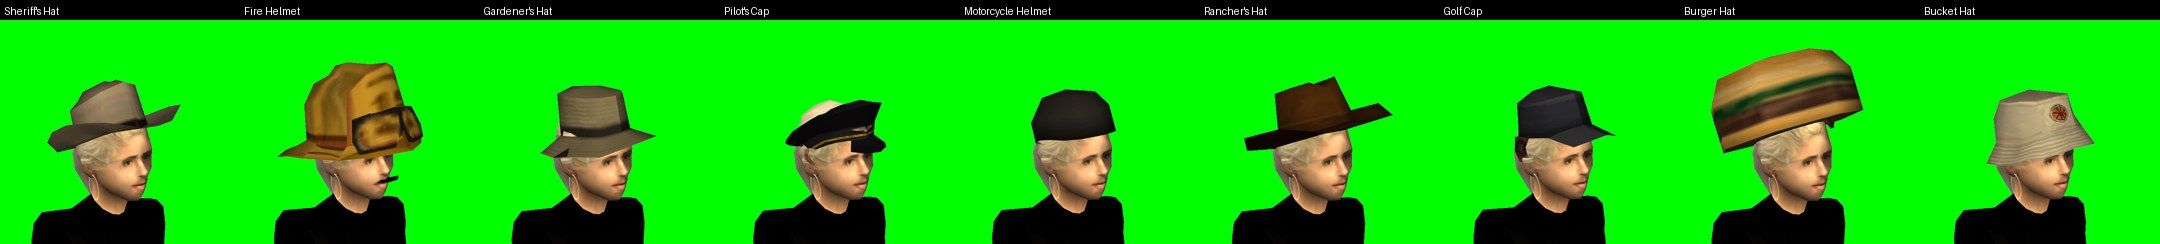
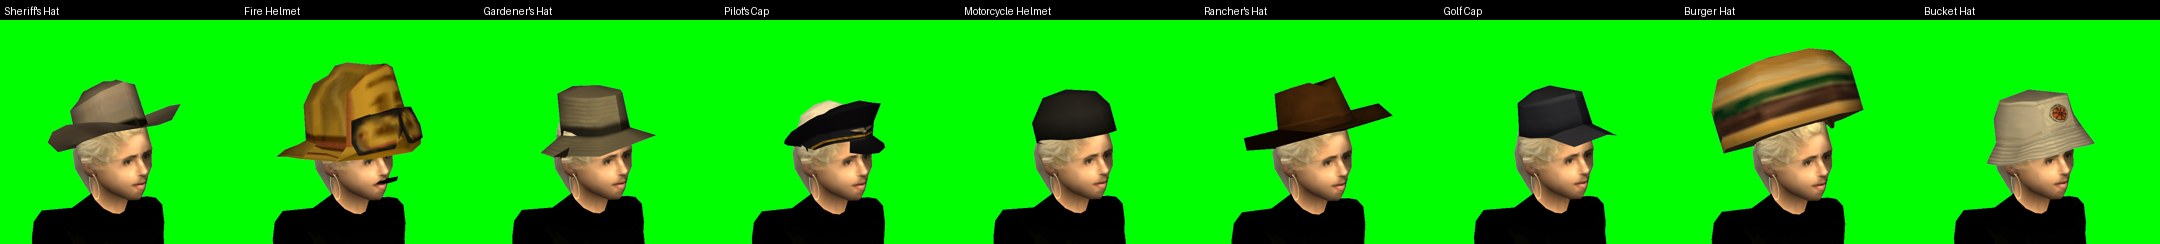
fix(models): hat atlas blocks checked face by face, a height floor for shared blocks (#77)
Coloured by block in Blender, the sheriff's crown front (5,5 and its band 3,6) and the gardener's brim (5,4) were
shell blocks the filter dropped, while the sheriff's 0,7, the pilot's 3,5 and the golf cap's 5,4 were skull band
and hair it kept. The bucket hat's crown top shares block 1,4 with the hair ring under it, so a row can now say
`above={(c, r): metres}` and remodel_head.py takes --above. Nine hats re-shot alone from five angles and worn on
skin 93; the review and the runbook carry the method.

diff --git a/tools/blender/remodel_head.py b/tools/blender/remodel_head.py
@@ -1,6 +1,6 @@
 """Rebuild a bare head for a GTA:SA ped whose mesh carries a hat: run inside Blender with the DragonFF add-on.
 
-    blender --python tools/blender/remodel_head.py -- <ped dir> <out dir> [--only heads|hats|both] [--blocks c,r;c,r] [skin ...]
+    blender --python tools/blender/remodel_head.py -- <ped dir> <out dir> [--only heads|hats|both] [--blocks c,r;c,r] [--above c,r,h] [skin ...]
 
 <ped dir> holds <name>.dff and <name>.txd (tools/extract_ped_models.py puts them in models/work when run with
 --keep). For each skin in HEADS the script imports the ped with its texture, deletes the headgear, flattens the cut,
@@ -66,7 +66,7 @@ HEADS = {
 }
 
 
-def remodel(src_dir, out_dir, name, tex, cap_floor=0.045, dark_floor=-0.03, dark_lum=0.12, bright_floor=None, bright_lum=0.7, profile=P, apex=0.09, hair_uv=None, cap_blocks=None, only="both", hat_blocks=None):
+def remodel(src_dir, out_dir, name, tex, cap_floor=0.045, dark_floor=-0.03, dark_lum=0.12, bright_floor=None, bright_lum=0.7, profile=P, apex=0.09, hair_uv=None, cap_blocks=None, only="both", hat_blocks=None, hat_above=None):
     for o in list(bpy.data.objects):
         bpy.data.objects.remove(o, do_unlink=True)
     for i in list(bpy.data.images):
@@ -129,7 +129,7 @@ def remodel(src_dir, out_dir, name, tex, cap_floor=0.045, dark_floor=-0.03, dark
     notes = []
     if only in ("both", "hats"):
         to_bone = (arm.matrix_world @ head.matrix_local).inverted() @ ob.matrix_world
-        notes.append(export_hat(doomed, uvl, to_bone, name, tex, img, out_dir, hat_blocks))
+        notes.append(export_hat(doomed, uvl, to_bone, name, tex, img, out_dir, hat_blocks, hat_above))
     if only == "hats":
         bm.free()
         return f"{name}: " + "; ".join(notes)
@@ -234,18 +234,22 @@ def remodel(src_dir, out_dir, name, tex, cap_floor=0.045, dark_floor=-0.03, dark
 # in the Head bone's bind frame (DragonFF rebuilds the bone from the skin's inverse bind matrix, so the bone's rest
 # matrix is that frame), they make a static object that `items` attaches on SA-MP bone 2 at zero offset: the game
 # places an attachment in the bone's own axes, which are rotated against the ped's model space (#77).
-def export_hat(faces, uvl, to_bone, name, tex, img, out_dir, blocks=None):
+def export_hat(faces, uvl, to_bone, name, tex, img, out_dir, blocks=None, above=None):
     hb = bmesh.new()
     huv = hb.loops.layers.uv.new()
     verts = {}
     lining = 0
     for f in faces:
         # GTA models a skull patch under its hats, textured with a smear of the face, and the rules cut it with
-        # the hat: only faces in the hat's own atlas blocks (tools/port_hats.py) go into the object
+        # the hat: only faces in the hat's own atlas blocks (tools/port_hats.py) go into the object, and a block
+        # listed in `above` only from that height over the bone up
         if blocks is not None:
             cu = sum(l[uvl].uv.x for l in f.loops) / len(f.loops)
             cv = sum(l[uvl].uv.y for l in f.loops) / len(f.loops)
-            if (int((cu % 1.0) * 8), int(((1 - cv) % 1.0) * 8)) not in blocks:
+            block = (int((cu % 1.0) * 8), int(((1 - cv) % 1.0) * 8))
+            floor = (above or {}).get(block)
+            height = (to_bone @ f.calc_center_median()).x
+            if block not in blocks and floor is None or floor is not None and height < floor:
                 lining += 1
                 continue
         vs = []
@@ -307,9 +311,14 @@ if __name__ == "__main__":
         i = argv.index("--blocks")
         hat_blocks = {tuple(int(v) for v in b.split(",")) for b in argv[i + 1].split(";")}
         del argv[i : i + 2]
+    hat_above = None  # "c,r,h;c,r,h": blocks that are hat only from h metres over the Head bone up
+    if "--above" in argv:
+        i = argv.index("--above")
+        hat_above = {(int(c), int(r)): float(h) for c, r, h in (b.split(",") for b in argv[i + 1].split(";"))}
+        del argv[i : i + 2]
     src_dir, out_dir = argv[0], argv[1]
     skins = [int(s) for s in argv[2:]] or list(HEADS)
     addon_utils.enable("DragonFF", default_set=False)
     for skin in skins:
         spec = dict(HEADS[skin])
-        print(remodel(src_dir, out_dir, spec.pop("name"), spec.pop("tex"), only=only, hat_blocks=hat_blocks, **spec))
+        print(remodel(src_dir, out_dir, spec.pop("name"), spec.pop("tex"), only=only, hat_blocks=hat_blocks, hat_above=hat_above, **spec))

diff --git a/tools/port_hats.py b/tools/port_hats.py
@@ -13,17 +13,20 @@ PORT_MODEL_MIN = 20001
 # uname, display name, skin, ped dff name, loot: { table: weight }, blocks: the 8x8 atlas blocks (column, row; row 0 at
 # the top) that are the hat. GTA models a skull patch under its hats, textured with a smear of the face, and the
 # remodel rules cut it off with the hat; faces outside these blocks are left out of the object (they would show
-# through its open bottom). Read off an atlas sheet with the 8x8 grid drawn over each skin's texture.
+# through its open bottom). Read off an atlas sheet with the 8x8 grid drawn over each skin's texture, then checked
+# face by face in Blender with each block in its own colour (the skull patch sits well inside the crown's radius).
+# `above`: blocks that are hat only from that height over the Head bone up (the bucket hat's crown top shares a
+# block with the hair ring under it).
 HATS = [
-    dict(uname="SheriffHat", name="Sheriff's Hat", skin=283, ped="csher", loot={"world_police": 12.0, "vehicle_police": 10.0}, blocks={(3, 5), (4, 5), (0, 7)}),
+    dict(uname="SheriffHat", name="Sheriff's Hat", skin=283, ped="csher", loot={"world_police": 12.0, "vehicle_police": 10.0}, blocks={(3, 5), (4, 5), (5, 5), (3, 6)}),
     dict(uname="FireHelmet", name="Fire Helmet", skin=277, ped="lafd1", loot={"world_industrial": 10.0, "vehicle_industrial": 8.0}, blocks={(4, 6), (5, 6), (6, 6), (7, 6), (4, 7), (5, 7), (6, 7), (7, 7)}),
-    dict(uname="GardenerHat", name="Gardener's Hat", skin=35, ped="hmogar", loot={"world_civilian": 10.0}, blocks={(6, 4), (7, 4)}),
-    dict(uname="PilotCap", name="Pilot's Cap", skin=61, ped="wmyplt", loot={"world_civilian": 5.0, "vehicle_civilian": 4.0}, blocks={(5, 5), (6, 5), (7, 5), (3, 5), (1, 1), (2, 1)}),
+    dict(uname="GardenerHat", name="Gardener's Hat", skin=35, ped="hmogar", loot={"world_civilian": 10.0}, blocks={(5, 4), (6, 4), (7, 4)}),
+    dict(uname="PilotCap", name="Pilot's Cap", skin=61, ped="wmyplt", loot={"world_civilian": 5.0, "vehicle_civilian": 4.0}, blocks={(5, 5), (6, 5), (7, 5), (1, 1), (2, 1)}),
     dict(uname="MotoHelmet", name="Motorcycle Helmet", skin=247, ped="bikera", loot={"world_civilian": 8.0, "vehicle_civilian": 8.0}, blocks={(4, 0), (5, 0), (6, 0), (7, 0)}),
     dict(uname="RanchHat", name="Rancher's Hat", skin=161, ped="cwmyfr", loot={"world_civilian": 10.0}, blocks={(6, 2), (7, 2), (6, 3), (7, 3), (6, 4), (7, 4)}),
-    dict(uname="GolfCap", name="Golf Cap", skin=36, ped="wmygol1", loot={"world_civilian": 8.0}, blocks={(5, 4), (6, 4), (7, 4)}),
+    dict(uname="GolfCap", name="Golf Cap", skin=36, ped="wmygol1", loot={"world_civilian": 8.0}, blocks={(6, 4), (7, 4)}),
     dict(uname="BurgerHat", name="Burger Hat", skin=205, ped="wfyburg", loot={"world_civilian": 4.0}, blocks={(0, 4), (1, 4), (2, 4), (3, 4), (0, 5), (1, 5), (2, 5), (3, 5)}),
-    dict(uname="BucketHat", name="Bucket Hat", skin=2, ped="maccer", loot={"world_civilian": 8.0, "world_survivor": 6.0}, blocks={(0, 3), (1, 3), (2, 3), (3, 3), (2, 4), (3, 4)}),
+    dict(uname="BucketHat", name="Bucket Hat", skin=2, ped="maccer", loot={"world_civilian": 8.0, "world_survivor": 6.0}, blocks={(0, 3), (1, 3), (2, 3), (3, 3), (2, 4), (3, 4)}, above={(1, 4): 0.13}),
 ]
 for _i, _h in enumerate(HATS):
     _h["model"] = PORT_MODEL_MIN + _i

diff --git a/tools/extract_ped_models.py b/tools/extract_ped_models.py
@@ -113,7 +113,10 @@ def read_hats(path: Path) -> dict[int, str]:
 def export_hat(blender: Path, work: Path, out: Path, hat: dict) -> str:
     blocks = ";".join(f"{c},{r}" for c, r in sorted(hat["blocks"]))
     cmd = [str(blender), "-b", "--python", str(REMODEL_SCRIPT), "--", str(work), str(out), "--only", "hats"]
-    cmd += ["--blocks", blocks, str(hat["skin"])]
+    cmd += ["--blocks", blocks]
+    if hat.get("above"):
+        cmd += ["--above", ";".join(f"{c},{r},{h}" for (c, r), h in sorted(hat["above"].items()))]
+    cmd.append(str(hat["skin"]))
     res = subprocess.run(cmd, capture_output=True, text=True, timeout=600)
     notes = [line for line in res.stdout.splitlines() if ": hat of" in line]
     if res.returncode != 0:

diff --git a/docs/reviews/2026-10-25-cut-hats.md b/docs/reviews/2026-10-25-cut-hats.md
@@ -48,6 +48,7 @@ game is for the TXD binding, the bone frame and the final fit.
 | 3 | Faces of a ped mesh are wound every which way, since peds are drawn without back-face culling. As an object the crowns were see-through. Recalculating normals made free-standing hats solid, but worn hats vanished to slivers, because MTA culls an attached object on the opposite side from a free-standing one. `setElementDoubleSided` fixed the worn one. `engineSetModelFlag` "no_backface_cull" did not visibly change it | The exporter makes the shell double-sided, every face twice and reversed, for a few hundred extra triangles per hat. Solid from all six angles, worn and alone |
 | 4 | Skin 93's hair fills a hat cut from a flat male head. Lowering 2 cm at scale 0.9 pushed hair through the crown on the side and back views | `CUT_HAT_FIT[93]` is scale 1.1 at zero offset. Clean on the rancher and golf cap, with a sliver of hair at the back of the sheriff's crown |
 | 5 | Blender is the faster place to look at the mesh. The game is only needed for the TXD binding, the bone frame and the final fit | Workflow note, now in `docs/runbooks/add-hatless-skin.md` |
+| 6 | Alone on the green screen from five angles, after the block filter: the sheriff's crown had no front, the gardener's brim a hole, the pilot's cap and the golf cap skin and hair flaps, the bucket hat a notch in its crown. Each is one atlas block; coloured by block in Blender (one material per block, four views) the skull patch sits well inside the crown's radius and the shell on it | Sheriff keeps 5,5 and 3,6 and drops 0,7; gardener keeps 5,4; pilot drops 3,5; golf drops 5,4; the bucket hat's block 1,4 counts as hat only from 0.13 m up (`above` in the row) |
 
 The nine hats worn on skin 93, head-level three-quarter camera:
 
@@ -58,6 +59,9 @@ The nine hats alone in the studio, front and low views:
 ![cut hats alone](../images/cut-hats-alone.jpg)
 
 ## Not covered
+
+- The golf cap's back and the sheriff's crown back are open where the skin's hair was; GTA never modelled hat there. Closing them is a remodel.
+- The fire helmet carries a stray sliver under its brim and the bucket hat strands of hair inside the brim, both in hat blocks.
 
 - Fit rows for skins other than 283 and 93. Every other skin borrows along the `skins.lua` chain and was not checked.
 - The `_T` descriptions in the language files. The port does not use them.

diff --git a/docs/runbooks/add-hatless-skin.md b/docs/runbooks/add-hatless-skin.md
@@ -80,6 +80,10 @@ scale 1.1 at zero offset. Add a `CUT_HAT_FIT` row for a skin that needs one, not
 hat from six angles, worn and alone, and from the side camera (`studio <p> 270 1.4 0.75 0.65`), not the face
 preset, which looks up at the brim and makes the hat seem pitched back.
 
+A block can be hat only above a height (`above={(c, r): metres}` in the row) when it shares the atlas with the hair
+under it, as the bucket hat's crown top does. To check a block choice, colour the unfiltered cut by block in Blender
+(one material per block, four views): the skull patch sits well inside the crown's radius, the shell on it.
+
 Left out on purpose: headgear a SA-MP object already covers (police caps, SWAT and army helmets, the pizza cap, the
 beanie) and cuts that are mostly hair (dwayne's mullet, bikerb's bandana).
 
